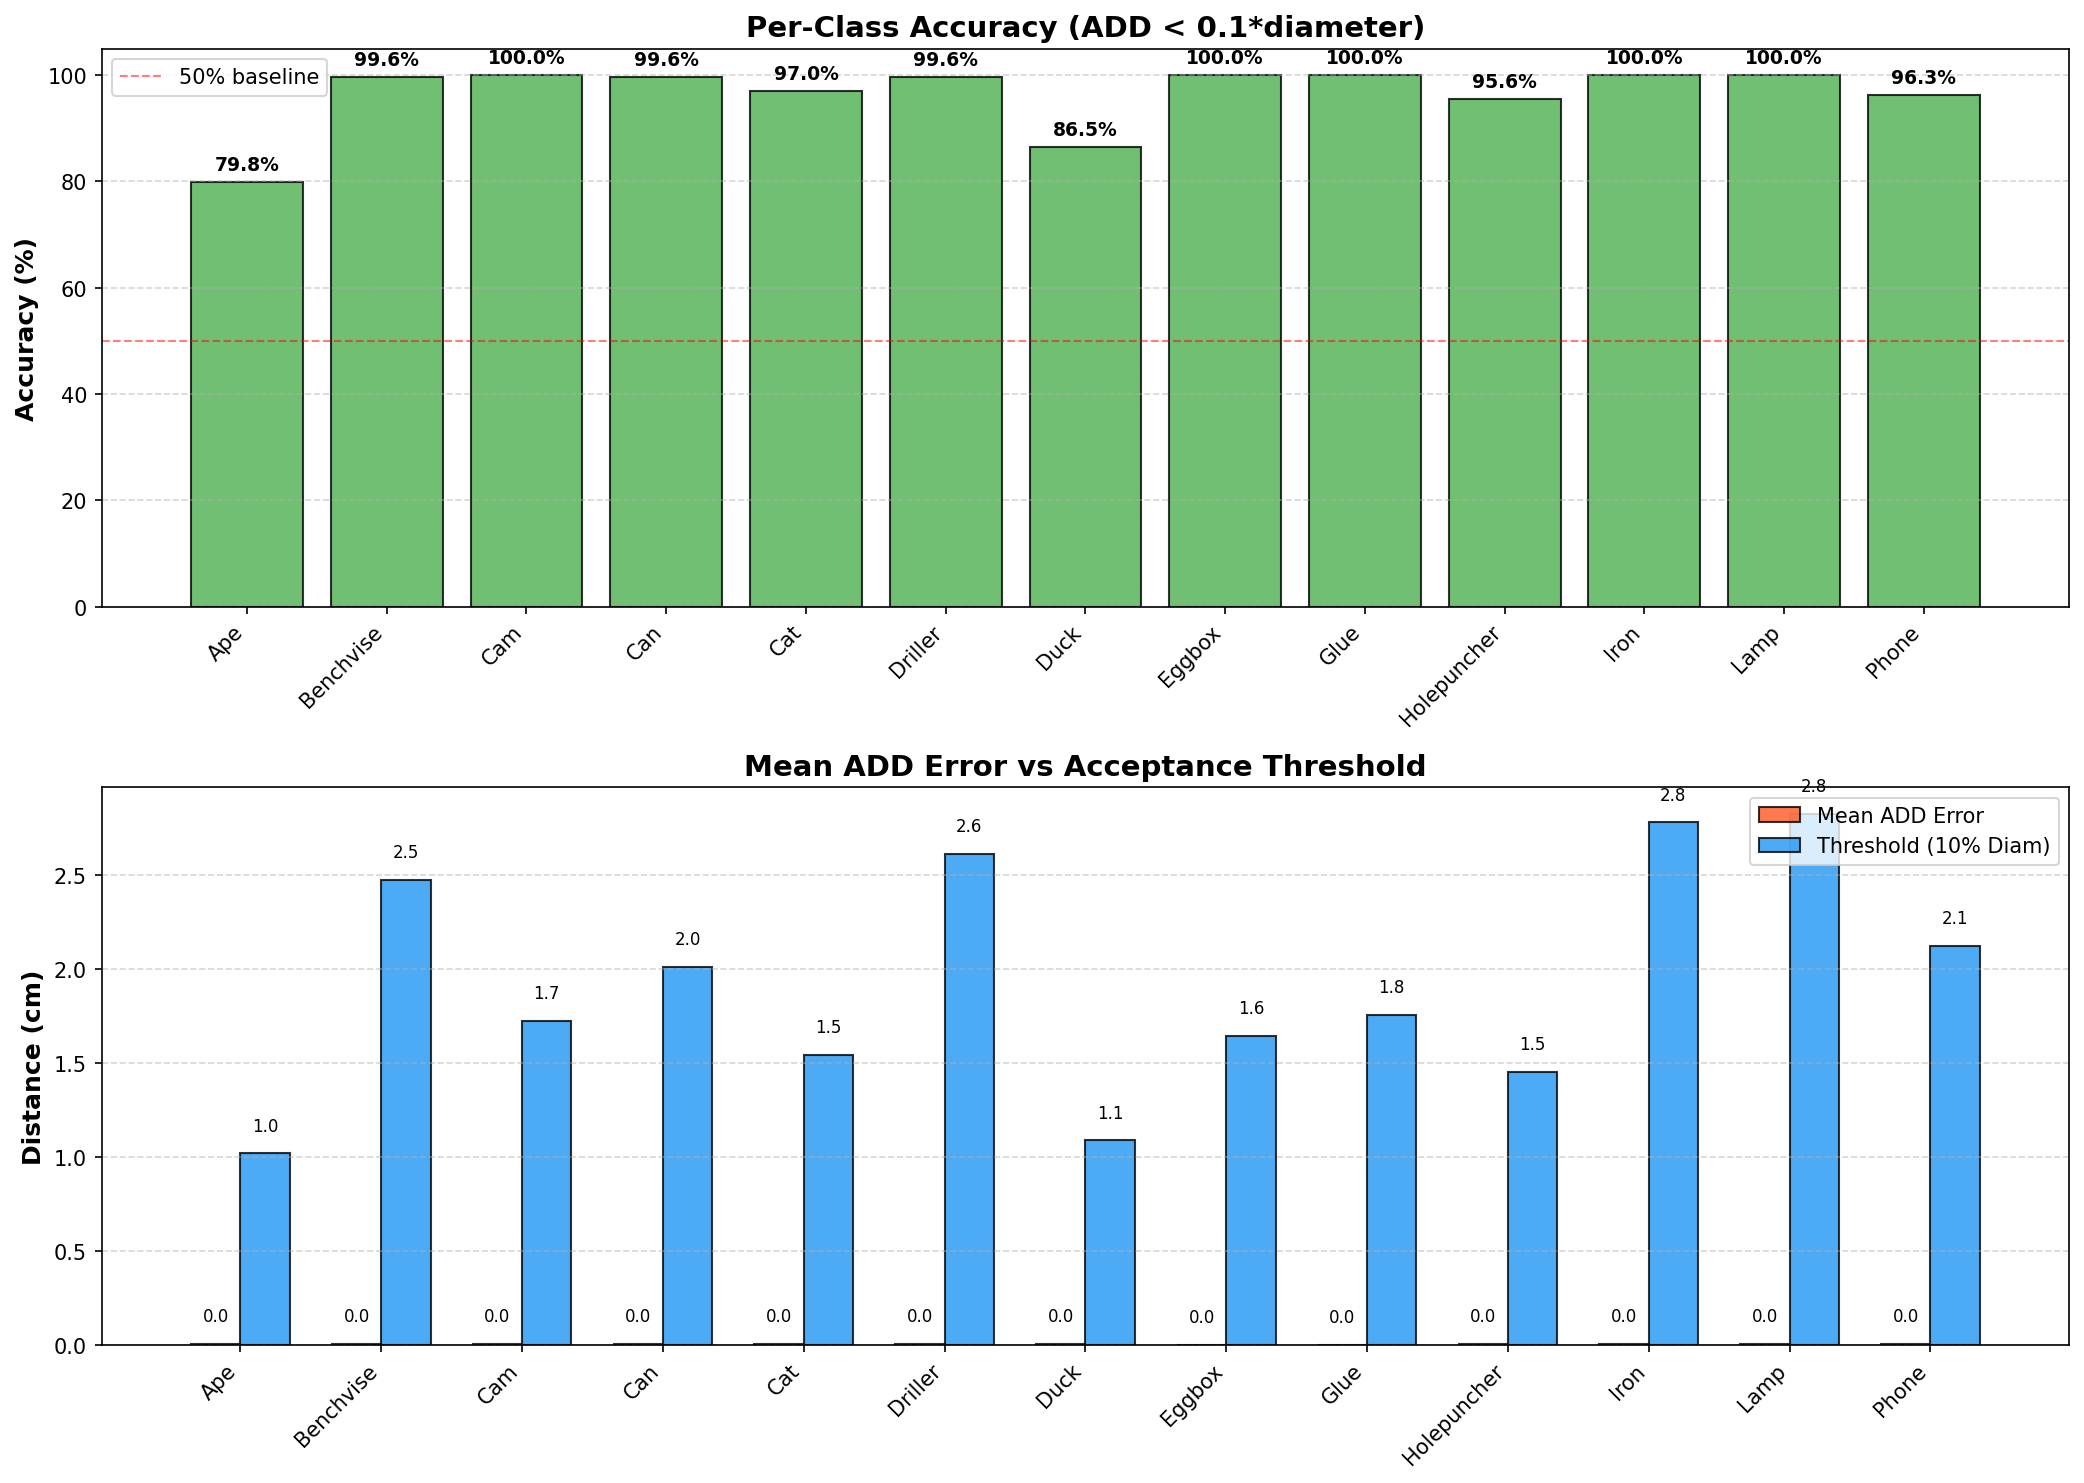
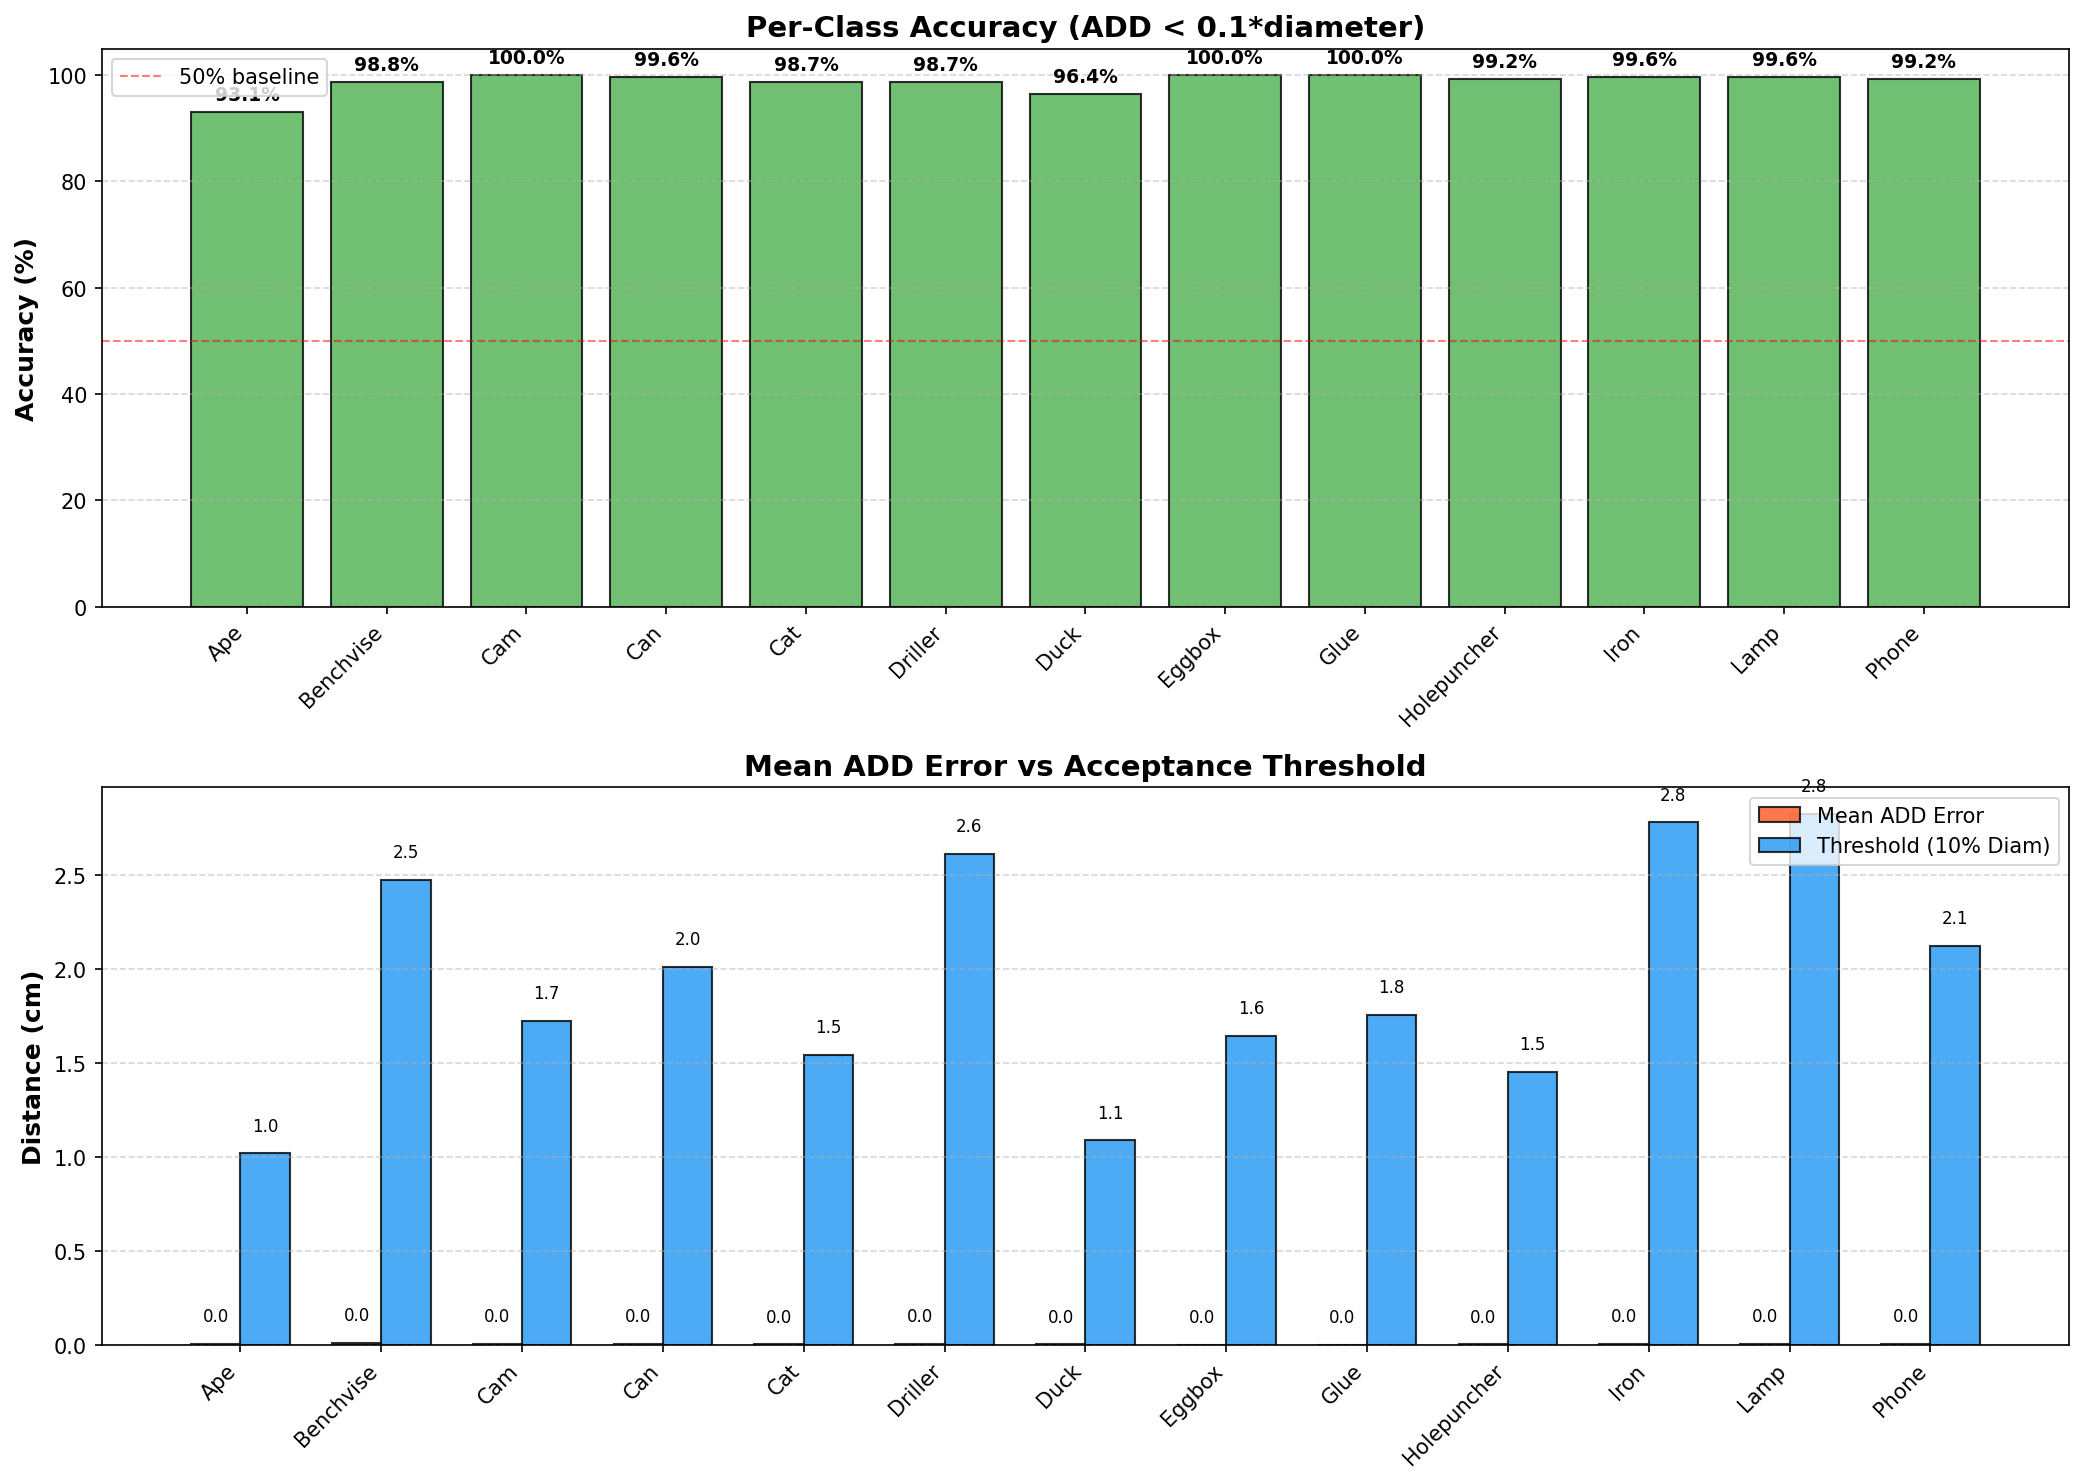
improved data augmentation and model dropout

diff --git a/utils/Posenet_utils/posenet_dataset_AltMasked.py b/utils/Posenet_utils/posenet_dataset_AltMasked.py
@@ -21,7 +21,7 @@ OBJID_TO_MASK_PIXEL = {
 }
 
 class LineModPoseDataset_AltMasked(Dataset):
-    def __init__(self, dataset_root, mode='train', img_size=224, noise_factor=0.08):
+    def __init__(self, dataset_root, mode='train', img_size=224, noise_factor=0.08, aug_intensity='medium'):
         """
         Args:
             dataset_root (str): Percorso alla root del dataset (es. .../Linemod_preprocessed)
@@ -36,6 +36,8 @@ class LineModPoseDataset_AltMasked(Dataset):
         self.noise_factor = noise_factor
         self.img_h, self.img_w = 480, 640 
         self.samples = [] 
+
+        self._setup_aug_params(aug_intensity)
 
         obj_ids = ['01', '02', '04', '05', '06', '08', '09', '10', '11', '12', '13', '14', '15']
         
@@ -184,6 +186,36 @@ class LineModPoseDataset_AltMasked(Dataset):
     def __len__(self):
         return len(self.samples)
 
+    def _setup_aug_params(self, intensity):
+        """Configura parametri augmentation in base all'intensità"""
+        if intensity == 'light':
+            self.aug_prob = 0.3
+            self.brightness_range = (0.9, 1.1)
+            self.contrast_range = (0.9, 1.1)
+            self.blur_kernel_max = 3
+            self.noise_std = 5
+            self.hue_shift = 5
+            self.sat_range = (0.95, 1.05)
+            self.depth_noise_std = 0.005
+        elif intensity == 'medium':
+            self.aug_prob = 0.5
+            self.brightness_range = (0.8, 1.2)
+            self.contrast_range = (0.8, 1.2)
+            self.blur_kernel_max = 5
+            self.noise_std = 10
+            self.hue_shift = 10
+            self.sat_range = (0.9, 1.1)
+            self.depth_noise_std = 0.01
+        else:  # aggressive
+            self.aug_prob = 0.7
+            self.brightness_range = (0.6, 1.4)
+            self.contrast_range = (0.7, 1.3)
+            self.blur_kernel_max = 7
+            self.noise_std = 15
+            self.hue_shift = 15
+            self.sat_range = (0.8, 1.2)
+            self.depth_noise_std = 0.02
+
     def _extract_clean_mask(self, mask_raw, obj_id):
         """Estrae maschera pulita usando la mappatura pixel corretta"""
         if obj_id in OBJID_TO_MASK_PIXEL:
@@ -197,6 +229,86 @@ class LineModPoseDataset_AltMasked(Dataset):
         """Usa la maschera così com'è (tutti gli oggetti visibili nel crop)"""
         # Binarizza: tutto ciò che non è sfondo (0) diventa 255
         return np.where(mask_raw > 0, 255, 0).astype(np.uint8)
+
+    def _augment_rgb(self, img):
+        """
+        Augmentation RGB aggressiva.
+        Input: numpy array RGB (H, W, 3) uint8
+        Output: numpy array RGB (H, W, 3) uint8
+        """
+        img = img.copy()
+        
+        # 1. Brightness & Contrast
+        if np.random.rand() < self.aug_prob:
+            alpha = np.random.uniform(*self.contrast_range)  # contrast
+            beta = np.random.uniform(-30, 30) * (self.brightness_range[1] - 1) / 0.2  # brightness scaled
+            img = cv2.convertScaleAbs(img, alpha=alpha, beta=beta)
+        
+        # 2. Gaussian Blur
+        if np.random.rand() < self.aug_prob * 0.6:
+            k = np.random.choice([3, 5, self.blur_kernel_max])
+            if k % 2 == 0:
+                k += 1
+            img = cv2.GaussianBlur(img, (k, k), 0)
+        
+        # 3. Gaussian Noise
+        if np.random.rand() < self.aug_prob * 0.5:
+            noise = np.random.normal(0, self.noise_std, img.shape).astype(np.float32)
+            img = np.clip(img.astype(np.float32) + noise, 0, 255).astype(np.uint8)
+        
+        # 4. HSV Perturbation (Hue & Saturation)
+        if np.random.rand() < self.aug_prob * 0.5:
+            hsv = cv2.cvtColor(img, cv2.COLOR_RGB2HSV).astype(np.float32)
+            # Hue shift
+            hsv[:, :, 0] = (hsv[:, :, 0] + np.random.uniform(-self.hue_shift, self.hue_shift)) % 180
+            # Saturation scale
+            hsv[:, :, 1] = np.clip(hsv[:, :, 1] * np.random.uniform(*self.sat_range), 0, 255)
+            img = cv2.cvtColor(hsv.astype(np.uint8), cv2.COLOR_HSV2RGB)
+        
+        # 5. Random Shadow (simula illuminazione non uniforme)
+        if np.random.rand() < self.aug_prob * 0.3:
+            h, w = img.shape[:2]
+            # Crea gradiente casuale
+            x1, x2 = np.random.randint(0, w, 2)
+            shadow_mask = np.linspace(0.5, 1.0, w).reshape(1, -1)
+            if np.random.rand() < 0.5:
+                shadow_mask = shadow_mask[:, ::-1]
+            shadow_mask = np.tile(shadow_mask, (h, 1))
+            img = (img * shadow_mask[:, :, np.newaxis]).astype(np.uint8)
+        
+        # 6. Channel Shuffle (raro, per robustezza)
+        if np.random.rand() < 0.1:
+            channels = [0, 1, 2]
+            np.random.shuffle(channels)
+            img = img[:, :, channels]
+        
+        return img
+
+    def _augment_depth(self, depth):
+        """
+        Augmentation Depth.
+        Input: numpy array (H, W) float32 in metri
+        Output: numpy array (H, W) float32 in metri
+        """
+        depth = depth.copy()
+        
+        # 1. Depth noise (simula rumore sensore)
+        if np.random.rand() < self.aug_prob:
+            noise = np.random.normal(0, self.depth_noise_std, depth.shape).astype(np.float32)
+            depth = depth + noise
+            depth = np.maximum(depth, 0)  # No negative depth
+        
+        # 2. Depth scale perturbation (simula calibrazione imperfetta)
+        if np.random.rand() < self.aug_prob * 0.3:
+            scale = np.random.uniform(0.98, 1.02)
+            depth = depth * scale
+        
+        # 3. Missing depth simulation (dropout casuale)
+        if np.random.rand() < self.aug_prob * 0.2:
+            mask = np.random.rand(*depth.shape) > 0.05  # 5% dropout
+            depth = depth * mask
+        
+        return depth
 
     def __getitem__(self, idx):
         sample = self.samples[idx]
@@ -303,8 +415,11 @@ class LineModPoseDataset_AltMasked(Dataset):
         img_crop = crop_square_resize(img, final_bbox, self.img_size, is_depth=False)
         d_img_crop = crop_square_resize(d_img, final_bbox, self.img_size, is_depth=True)
         mask_crop = crop_square_resize(mask, final_bbox, self.img_size, is_depth=True)
-        
         mask_crop = (mask_crop > 127).astype(np.float32)
+
+        if self.mode == 'train':
+            img_crop = self._augment_rgb(img_crop)
+            d_img_crop = self._augment_depth(d_img_crop)
         
         # 5. TO TENSOR
         img_tensor = self.transform(img_crop)
@@ -318,6 +433,7 @@ class LineModPoseDataset_AltMasked(Dataset):
 
         params = sample['position_input'] 
         cam_params = torch.tensor(params, dtype=torch.float32)
+
 
         return {
             'image': img_tensor,

diff --git a/run_experiment.py b/run_experiment.py
@@ -11,63 +11,26 @@ from Trainer_A100 import DAMFTurboTrainerA100
 if __name__ == "__main__":
 
     config = {
-        'dataset_root': '/Users/emanuelerosapepe/Desktop/test_YOLO/Linemod_preprocessed',
-        'split_train': 'data/autosplit_train_ALL.txt',
-        'split_val': 'data/autosplit_val_ALL.txt',
-
-        # SALVA IN UNA CARTELLA DIVERSA per non sovrascrivere il best model precedente!
-        'save_dir': 'checkpoints/',
-        'training_mode' : 'hard',
-        'lr' : 1e-4,
-
-        # === LOSS ESTREMA (Focus Traslazione) ===
-        'use_weighted_loss': False,
-        'rot_weight': 0.1,      # Mantenimento (Freeze logico)
-        'trans_weight': 3.0,    # SPINTA MASSIMA (era 3.0, osiamo 4.0)
-
-        'lr': 1e-4,  # Molto basso, perfetto per non rompere la rotazione
-
-        'T_0': 20,    # Un ciclo lungo e calmo
-        'T_mult': 2,
-        'eta_min': 1e-6, # Scende quasi a zero alla fine
-
-        # === SETTINGS ===
-        'batch_size': 32, # Rimaniamo a 32 per stabilità
-        'epochs': 100,
-        'early_stop_patience': 25,
-
-        'temperature': 2.0, # Temperatura standard
-        'num_points_mesh': 500,
-    }
-
-    trainer = DAMFTurboTrainerA100(config)
-    trainer.run()
-
-    """
-    config = {
         # Percorsi
-        'dataset_root': "",  # MODIFICA QUESTO
+        'dataset_root': "/Users/emanuelerosapepe/Desktop/test_YOLO/Linemod_preprocessed",  # MODIFICA QUESTO
         'split_val': "data/autosplit_val_ALL.txt",  # MODIFICA QUESTO
         'model_dir': 'checkpoints/',  # Directory con best_DAMF.pth
         'save_dir': 'checkpoints_results/',
-        
-        # Parametri
+        'training_mode': 'easy',
+        'model_old': False,
         'batch_size': 32,
         'num_workers': 12,  
         'temperature': 2.0,  # Stesso usato in training
     }
-    
-    # Crea directory output
-    os.makedirs(config['save_dir'], exist_ok=True)
-    
+
     # Esegui valutazione
     evaluator = DAMF_Evaluator(config)
     results = evaluator.run()
-    
+
     print("\n✅ Evaluation completed!")
     print(f"Final Accuracy: {results['accuracy']:.2f}%")
     print(f"Mean ADD: {results['mean_add_cm']:.2f} cm")
-    """
+
     """
     config = {
         # Percorsi

diff --git a/DAMF_Eval.py b/DAMF_Eval.py
@@ -13,7 +13,8 @@ from models.DFMasked_DualAtt_Net import DenseFusion_Masked_DualAtt_Net
 from models.DFMasked_DualAtt_NetVar import DenseFusion_Masked_DualAtt_NetVar
 from utils.Posenet_utils.posenet_dataset_ALL import LineModPoseDataset
 from utils.Posenet_utils.PoseEvaluator import PoseEvaluator 
-
+from utils.Posenet_utils.posenet_dataset_AltMasked import LineModPoseDataset_AltMasked
+from utils.Posenet_utils.posenet_dataset_ALLMasked import LineModPoseDatasetMasked
 
 class DAMF_Evaluator:
     
@@ -69,11 +70,24 @@ class DAMF_Evaluator:
     def _setup_data(self):
         """Carica il dataset di validazione."""
         print("📦 Loading Validation Dataset...")
-        val_ds = LineModPoseDataset(
-            self.cfg['split_val'], 
-            self.cfg['dataset_root'], 
-            mode='val'
-        )
+        if self.cfg['model_old'] :
+            val_ds = LineModPoseDataset(
+                self.cfg['split_val'], 
+                self.cfg['dataset_root'], 
+                mode='val'
+            )
+        else:
+            if self.cfg['training_mode'] == "easy" : 
+                val_ds = LineModPoseDatasetMasked(
+                    self.cfg['split_val'], 
+                    self.cfg['dataset_root'], 
+                    mode='val'
+                )
+            elif self.cfg['training_mode'] == "hard":
+                val_ds = LineModPoseDataset_AltMasked( 
+                    self.cfg['dataset_root'], 
+                    mode='val'
+                )
         
         # num_workers=0 è più sicuro su Mac, 2-4 su Linux/Windows
         val_loader = DataLoader(
@@ -96,7 +110,7 @@ class DAMF_Evaluator:
             temperature=self.cfg.get('temperature', 2.0)
         ).to(self.device)
         
-        weights_path = os.path.join(self.cfg['model_dir'], 'DenseFusion_Masked_DualAtt_NetVar.pth')
+        weights_path = os.path.join(self.cfg['model_dir'], 'DenseFusion_Masked_DualAtt_NetVar_Dropout.pth')
 
         """
         model = DAMF_Net(

diff --git a/models/DFMasked_DualAtt_NetVarAggressive.py b/models/DFMasked_DualAtt_NetVarAggressive.py
@@ -22,8 +22,8 @@ class DenseFusion_Masked_DualAtt_NetVar(nn.Module):
         # --- 2. ATTENTION MODULE ---
         self.attention_block = GeometricAttention(in_channels=512)
 
-        self.feat_dropout = nn.Dropout2d(p=0.3)
-        self.head_dropout = nn.Dropout2d(p=0.15)
+        self.feat_dropout = nn.Dropout2d(p=0.4)
+        self.head_dropout = nn.Dropout2d(p=0.2)
         
         # --- 3. DENSE FUSION CON RESIDUAL ---
         # Input: 1024 -> Project to 512 -> Residual Block
@@ -45,17 +45,24 @@ class DenseFusion_Masked_DualAtt_NetVar(nn.Module):
         
         # --- 4. PIXEL-WISE HEADS ---
         # Rot Head
+        """
         self.rot_head = nn.Sequential(
             nn.Conv2d(1024, 256, 1), 
             nn.ReLU(),
             nn.Conv2d(256, 4, 1)    
         )
+        """
+        self.rot_head = nn.Sequential(
+            nn.Conv2d(1024, 128, 1), 
+            nn.ReLU(),
+            nn.Conv2d(128, 4, 1)    
+        )
         
         # Trans Head
         self.trans_head = nn.Sequential(
-            nn.Conv2d(520, 256, 1),
+            nn.Conv2d(520, 128, 1),
             nn.ReLU(),
-            nn.Conv2d(256, 3, 1)    
+            nn.Conv2d(128, 3, 1)    
         )
         
         # Confidence Head (Output Logits per Softmax)

diff --git a/utils/Posenet_utils/posenet_dataset_ALLMasked.py b/utils/Posenet_utils/posenet_dataset_ALLMasked.py
@@ -35,7 +35,6 @@ class LineModPoseDatasetMasked(Dataset):
         self.mode = mode
         self.img_size = img_size
         self.noise_factor = noise_factor
-        self.mask_contamination_prob = mask_contamination_prob if mode == 'train' else 0.0
         self.img_h, self.img_w = 480, 640 
         self.samples = []
         
@@ -43,8 +42,6 @@ class LineModPoseDatasetMasked(Dataset):
             image_paths_raw = [line.strip() for line in f.readlines() if line.strip()]
 
         print(f"[{mode.upper()}] Dataset indexing (Scene-Level Augmentation)...")
-        if mode == 'train':
-            print(f"[{mode.upper()}] Mask contamination probability: {mask_contamination_prob}")
         
         loaded_gts = {} 
         cam_infos_cache = {}
@@ -173,7 +170,7 @@ class LineModPoseDatasetMasked(Dataset):
             if sample['use_mask_all']:
                 # === FOLDER 02: Decidi se usare maschera pulita o contaminata ===
                 use_contaminated = (self.mode == 'train')
-                
+                print("using contaminated")
                 if use_contaminated:
                     # Maschera "sporca": include tutti gli oggetti nel crop
                     mask = self._extract_contaminated_mask(mask_raw)
